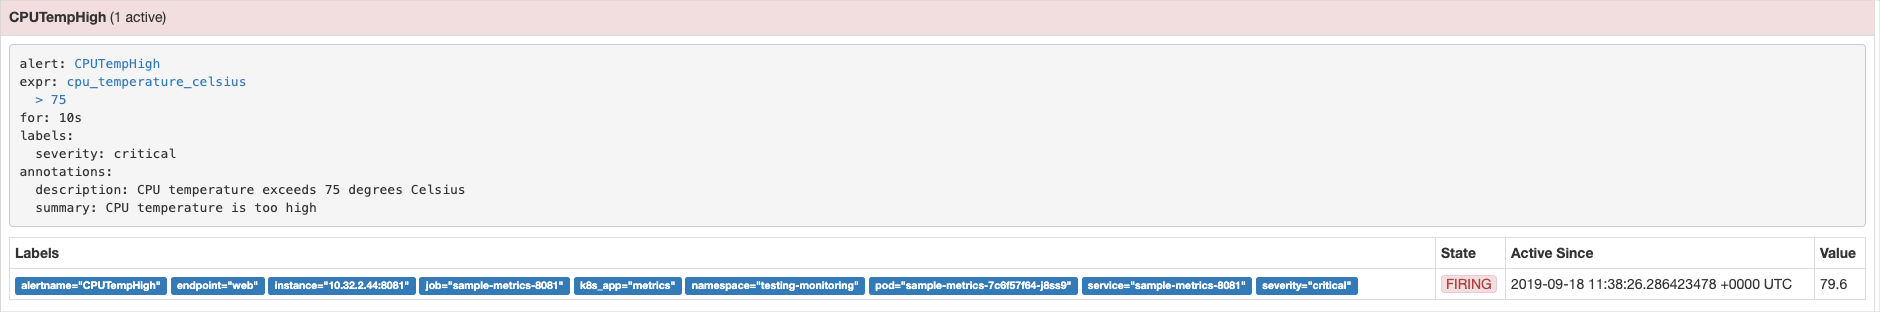
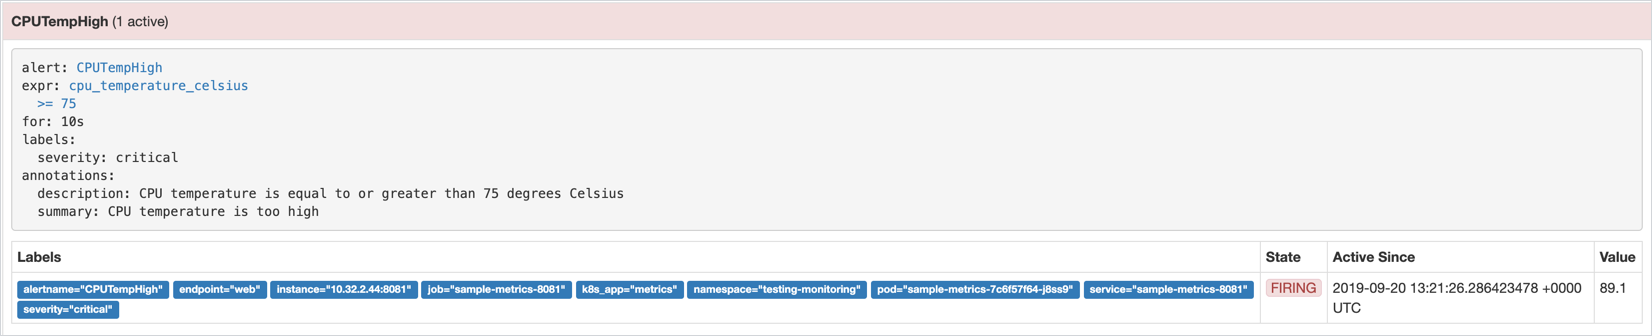
Add further changes to unify tutorials

Changed region(s): [[0.0, 0.7212, 1.0, 0.9519], [0.0, 0.1731, 0.3705, 0.6923], [0.0, 0.0, 1.0, 0.1731]]

diff --git a/docs/monitoring/08-04-define-alerting-rules.md b/docs/monitoring/08-04-define-alerting-rules.md
@@ -3,7 +3,7 @@ title: Define alerting rules
 type: Tutorials
 ---
 
-This tutorial shows you how to define alerting rules to monitor the health status of your resources. In this example, you will write an alerting rule based on the `cpu_temperature_celsius` metric. The alert defined in the rule will fire whenever the CPU temperature exceeds 75 degrees Celsius.
+This tutorial shows you how to define alerting rules to monitor the health status of your resources. In this example, you will write an alerting rule based on the `cpu_temperature_celsius` metric. The alert defined in the rule will fire whenever the CPU temperature is equal to or greater than 75 degrees Celsius.
 
 ## Prerequisites
 
@@ -33,12 +33,12 @@ spec:
   - name: cpu.temp.rules
     rules:
     - alert: CPUTempHigh
-      expr: cpu_temperature_celsius > 75 
+      expr: cpu_temperature_celsius >= 75
       for: 10s
       labels:
         severity: critical
       annotations:
-        description: "CPU temperature exceeds 75 degrees Celsius"
+        description: "CPU temperature is equal to or greater than 75 degrees Celsius"
         summary: "CPU temperature is too high"
 ```
 Configure your alert rule using the following parameters:
@@ -47,10 +47,10 @@ Configure your alert rule using the following parameters:
 |-----------|-------------|---------------|
 | **groups.name** | Specifies the name of the group listing the rules.  | `cpu.temp.rules` |
 | **rules.alert** | Specifies the name of the alert. | `CPUTempHigh`  |
-| **rules.expr** | A PromQL expression which specifies the conditions that must be met for the alarm to fire. Specify the expression using Kubernetes [functions](https://prometheus.io/docs/prometheus/latest/querying/functions/) and [metrics](https://github.com/kubernetes/kube-state-metrics/blob/master/docs/README.md). | `cpu_temperature_celsius > 75`  |
+| **rules.expr** | A PromQL expression which specifies the conditions that must be met for the alarm to fire. Specify the expression using Kubernetes [functions](https://prometheus.io/docs/prometheus/latest/querying/functions/) and [metrics](https://github.com/kubernetes/kube-state-metrics/blob/master/docs/README.md). | `cpu_temperature_celsius >= 75`  |
 | **rules.for** | Specifies the time period between encountering an active alert for the first time during rule evaluation and firing the alert.  | `10s` |
 | **rules.labels.severity** | Specifies the severity of the alert.  | `critical` |
-| **rules.annotations.description** | Provides the alert details. | `CPU temperature exceeds 75 degrees Celsius` |
+| **rules.annotations.description** | Provides the alert details. | `CPU temperature is equal to or greater than 75 degrees Celsius` |
 | **rules.annotations.summary** | Provides a short alert summary. | `CPU temperature is too high` |
 
 

diff --git a/docs/monitoring/08-01-overview.md b/docs/monitoring/08-01-overview.md
@@ -11,9 +11,9 @@ The tutorial set consists of these documents:
 
 1. [**Observe application metrics**](#tutorials-observe-application-metrics) in which you redirect the `cpu_temperature_celsius` metric to the localhost and the Prometheus UI. You later observe how the metric value changes in the predefined 10 seconds interval in which Prometheus scrapes the metric values from the service's `/metrics` endpoint.
 
-2. [**Create a Grafana dashboard**](#tutorials-create-a-grafana-dashboard) in which you create a Grafana dashboard of a Gauge type for the `cpu_temperature_celsius` metric. This dashboard shows explicitly when the CPU temperature is equal to or exceeds the predefined threshold of 75 degrees Celsius, at which point the dashboard turns red.
+2. [**Create a Grafana dashboard**](#tutorials-create-a-grafana-dashboard) in which you create a Grafana dashboard of a Gauge type for the `cpu_temperature_celsius` metric. This dashboard shows explicitly when the CPU temperature is equal to or higher than the predefined threshold of 75 degrees Celsius, at which point the dashboard turns red.
 
-3. [**Define alerting rules**](#tutorials-define-alerting-rules) in which you define the `CPUTempHigh` alerting rule by creating a PrometheusRule resource. Prometheus accesses the `/metrics` endpoint every 10 seconds and validates the current value of the `cpu_temperature_celsius` metric. If the value is higher than 75 degrees Celsius, Prometheus waits for 10 seconds to check it again. If the value still exceeds the threshold, Prometheus triggers the rule. You can observe both the rule and the alert it generates on the Prometheus dashboard.
+3. [**Define alerting rules**](#tutorials-define-alerting-rules) in which you define the `CPUTempHigh` alerting rule by creating a PrometheusRule resource. Prometheus accesses the `/metrics` endpoint every 10 seconds and validates the current value of the `cpu_temperature_celsius` metric. If the value is equal to or higher than 75 degrees Celsius, Prometheus waits for 10 seconds to check it again. If the value still exceeds the threshold, Prometheus triggers the rule. You can observe both the rule and the alert it generates on the Prometheus dashboard.
 
 4. [**Send notifications to Slack**](#tutorials-send-notifications-to-slack) in which you configure Alertmanager to send notifications on Prometheus alerts to a Slack channel. This way, whenever Prometheus triggers or resolves the `CPUTempHigh` alert, Alertmanager sends a notification to the `test-monitoring-alerts` Slack channel defined for the purpose of the tutorial.
 
